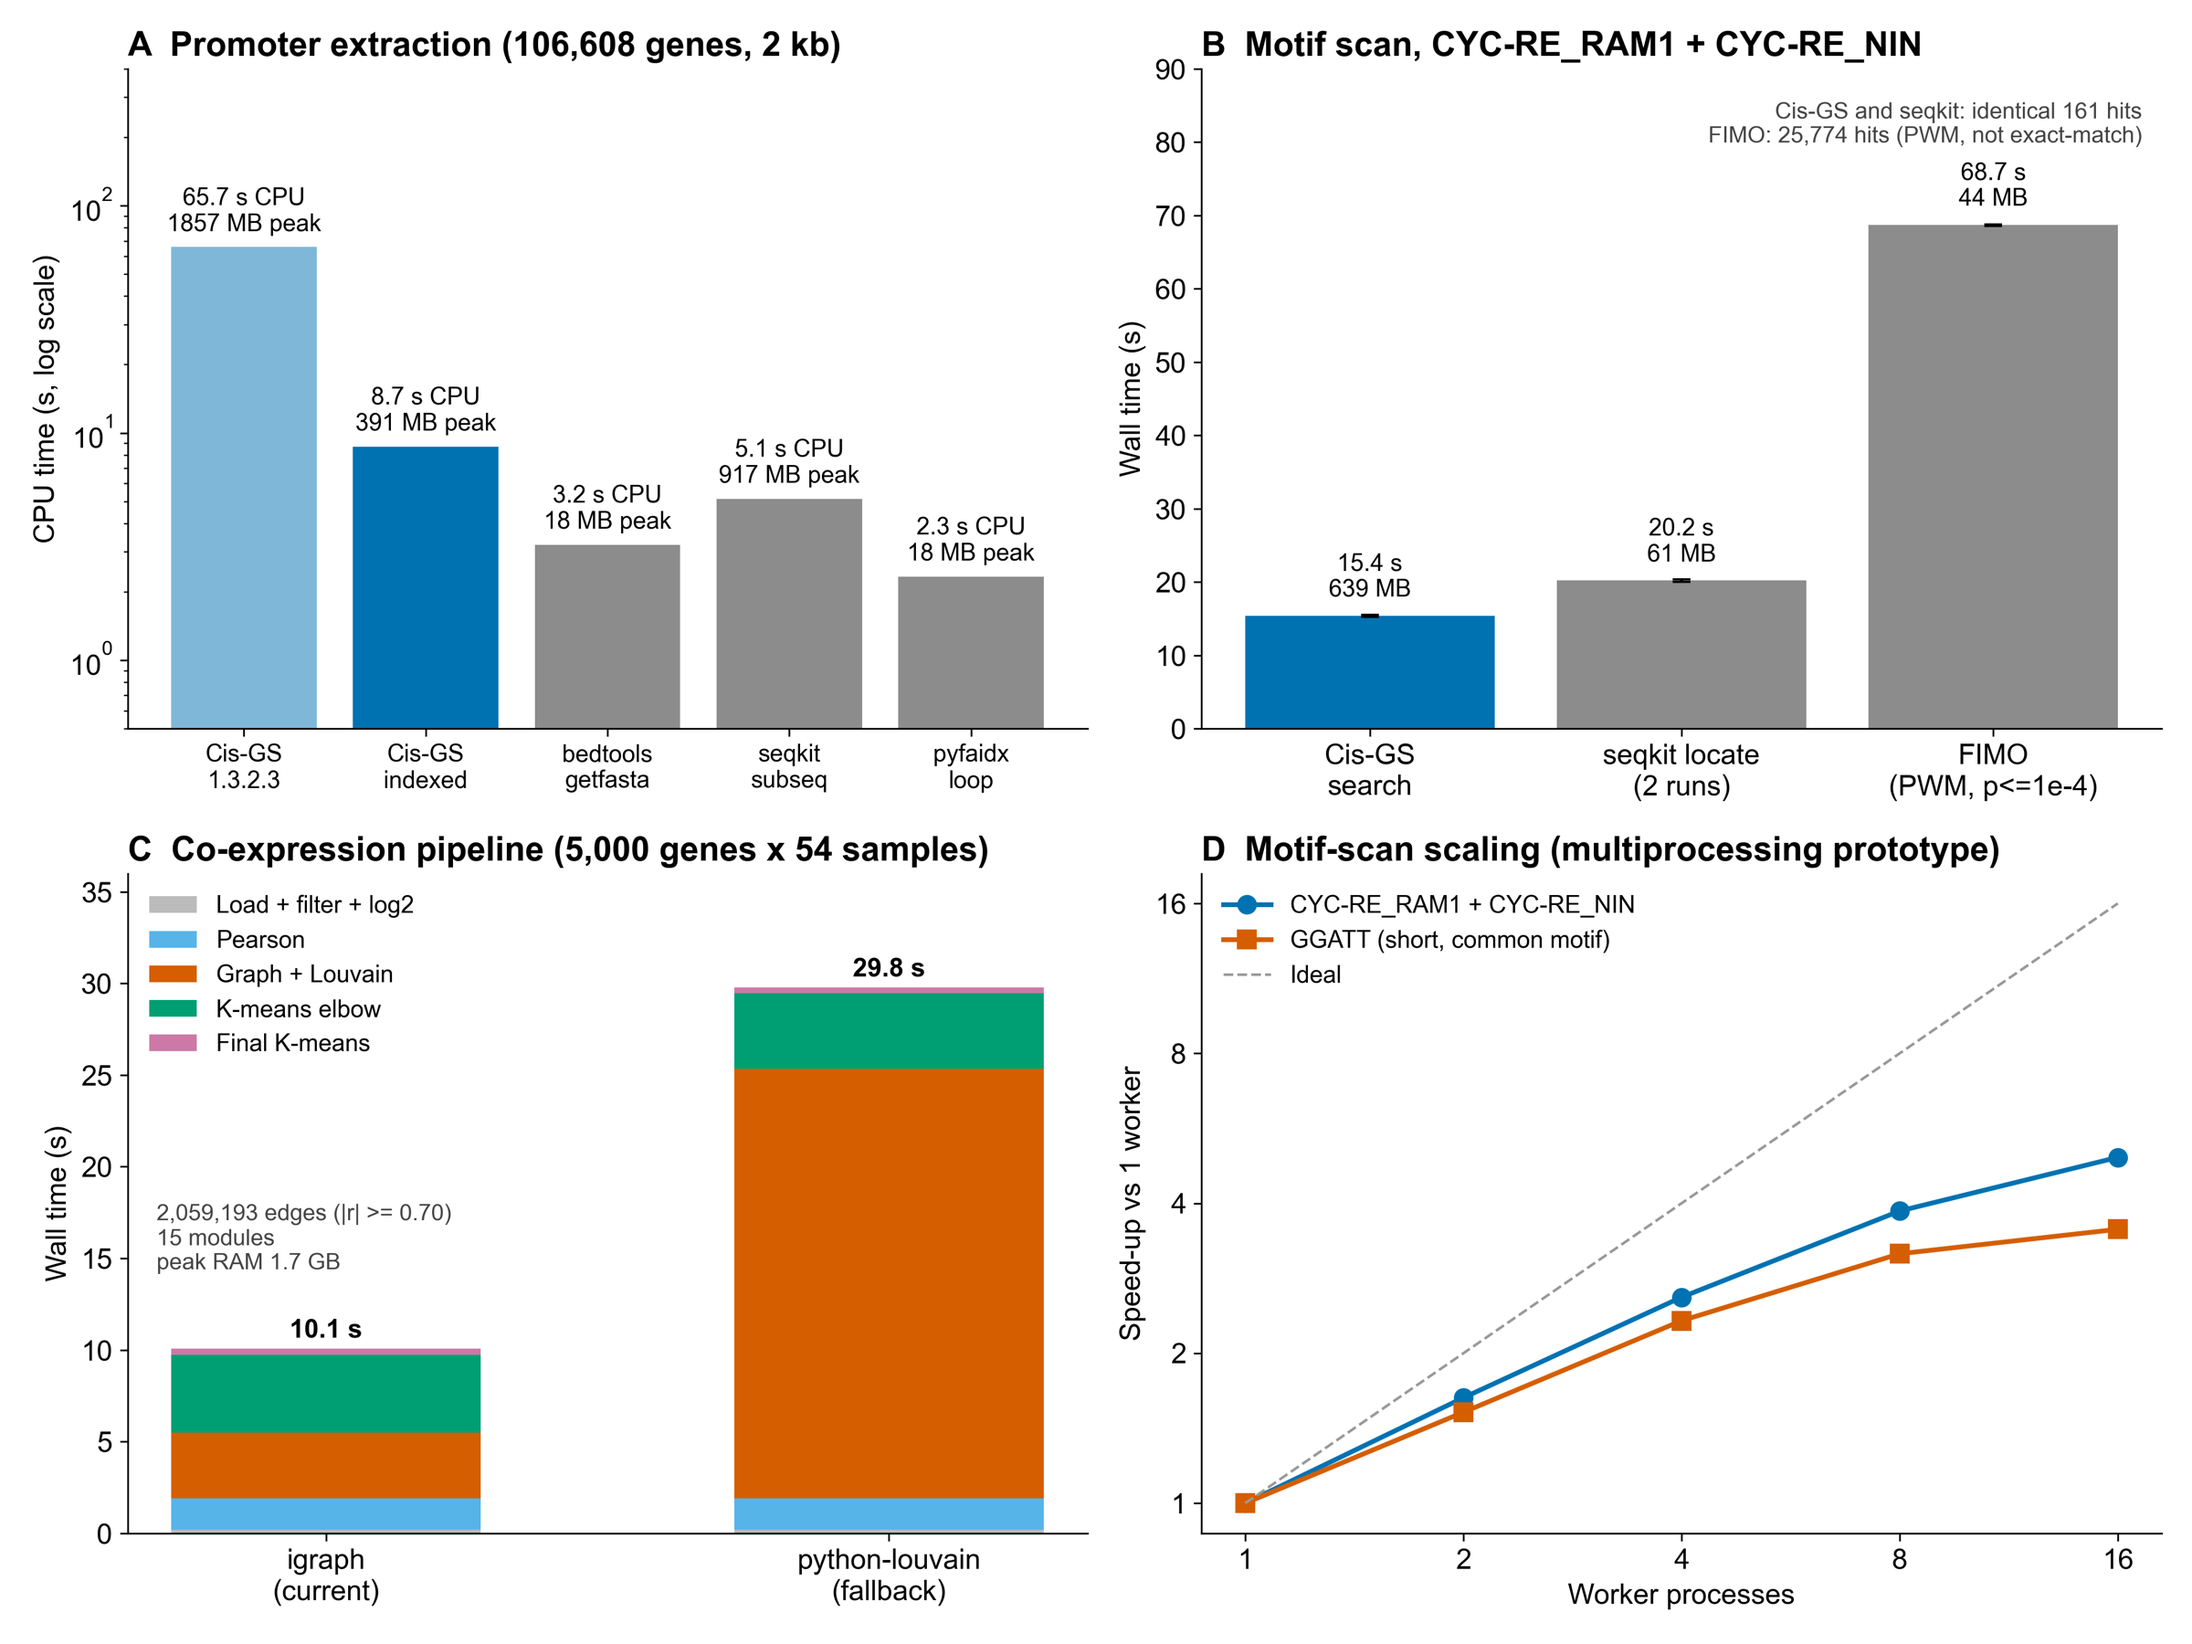
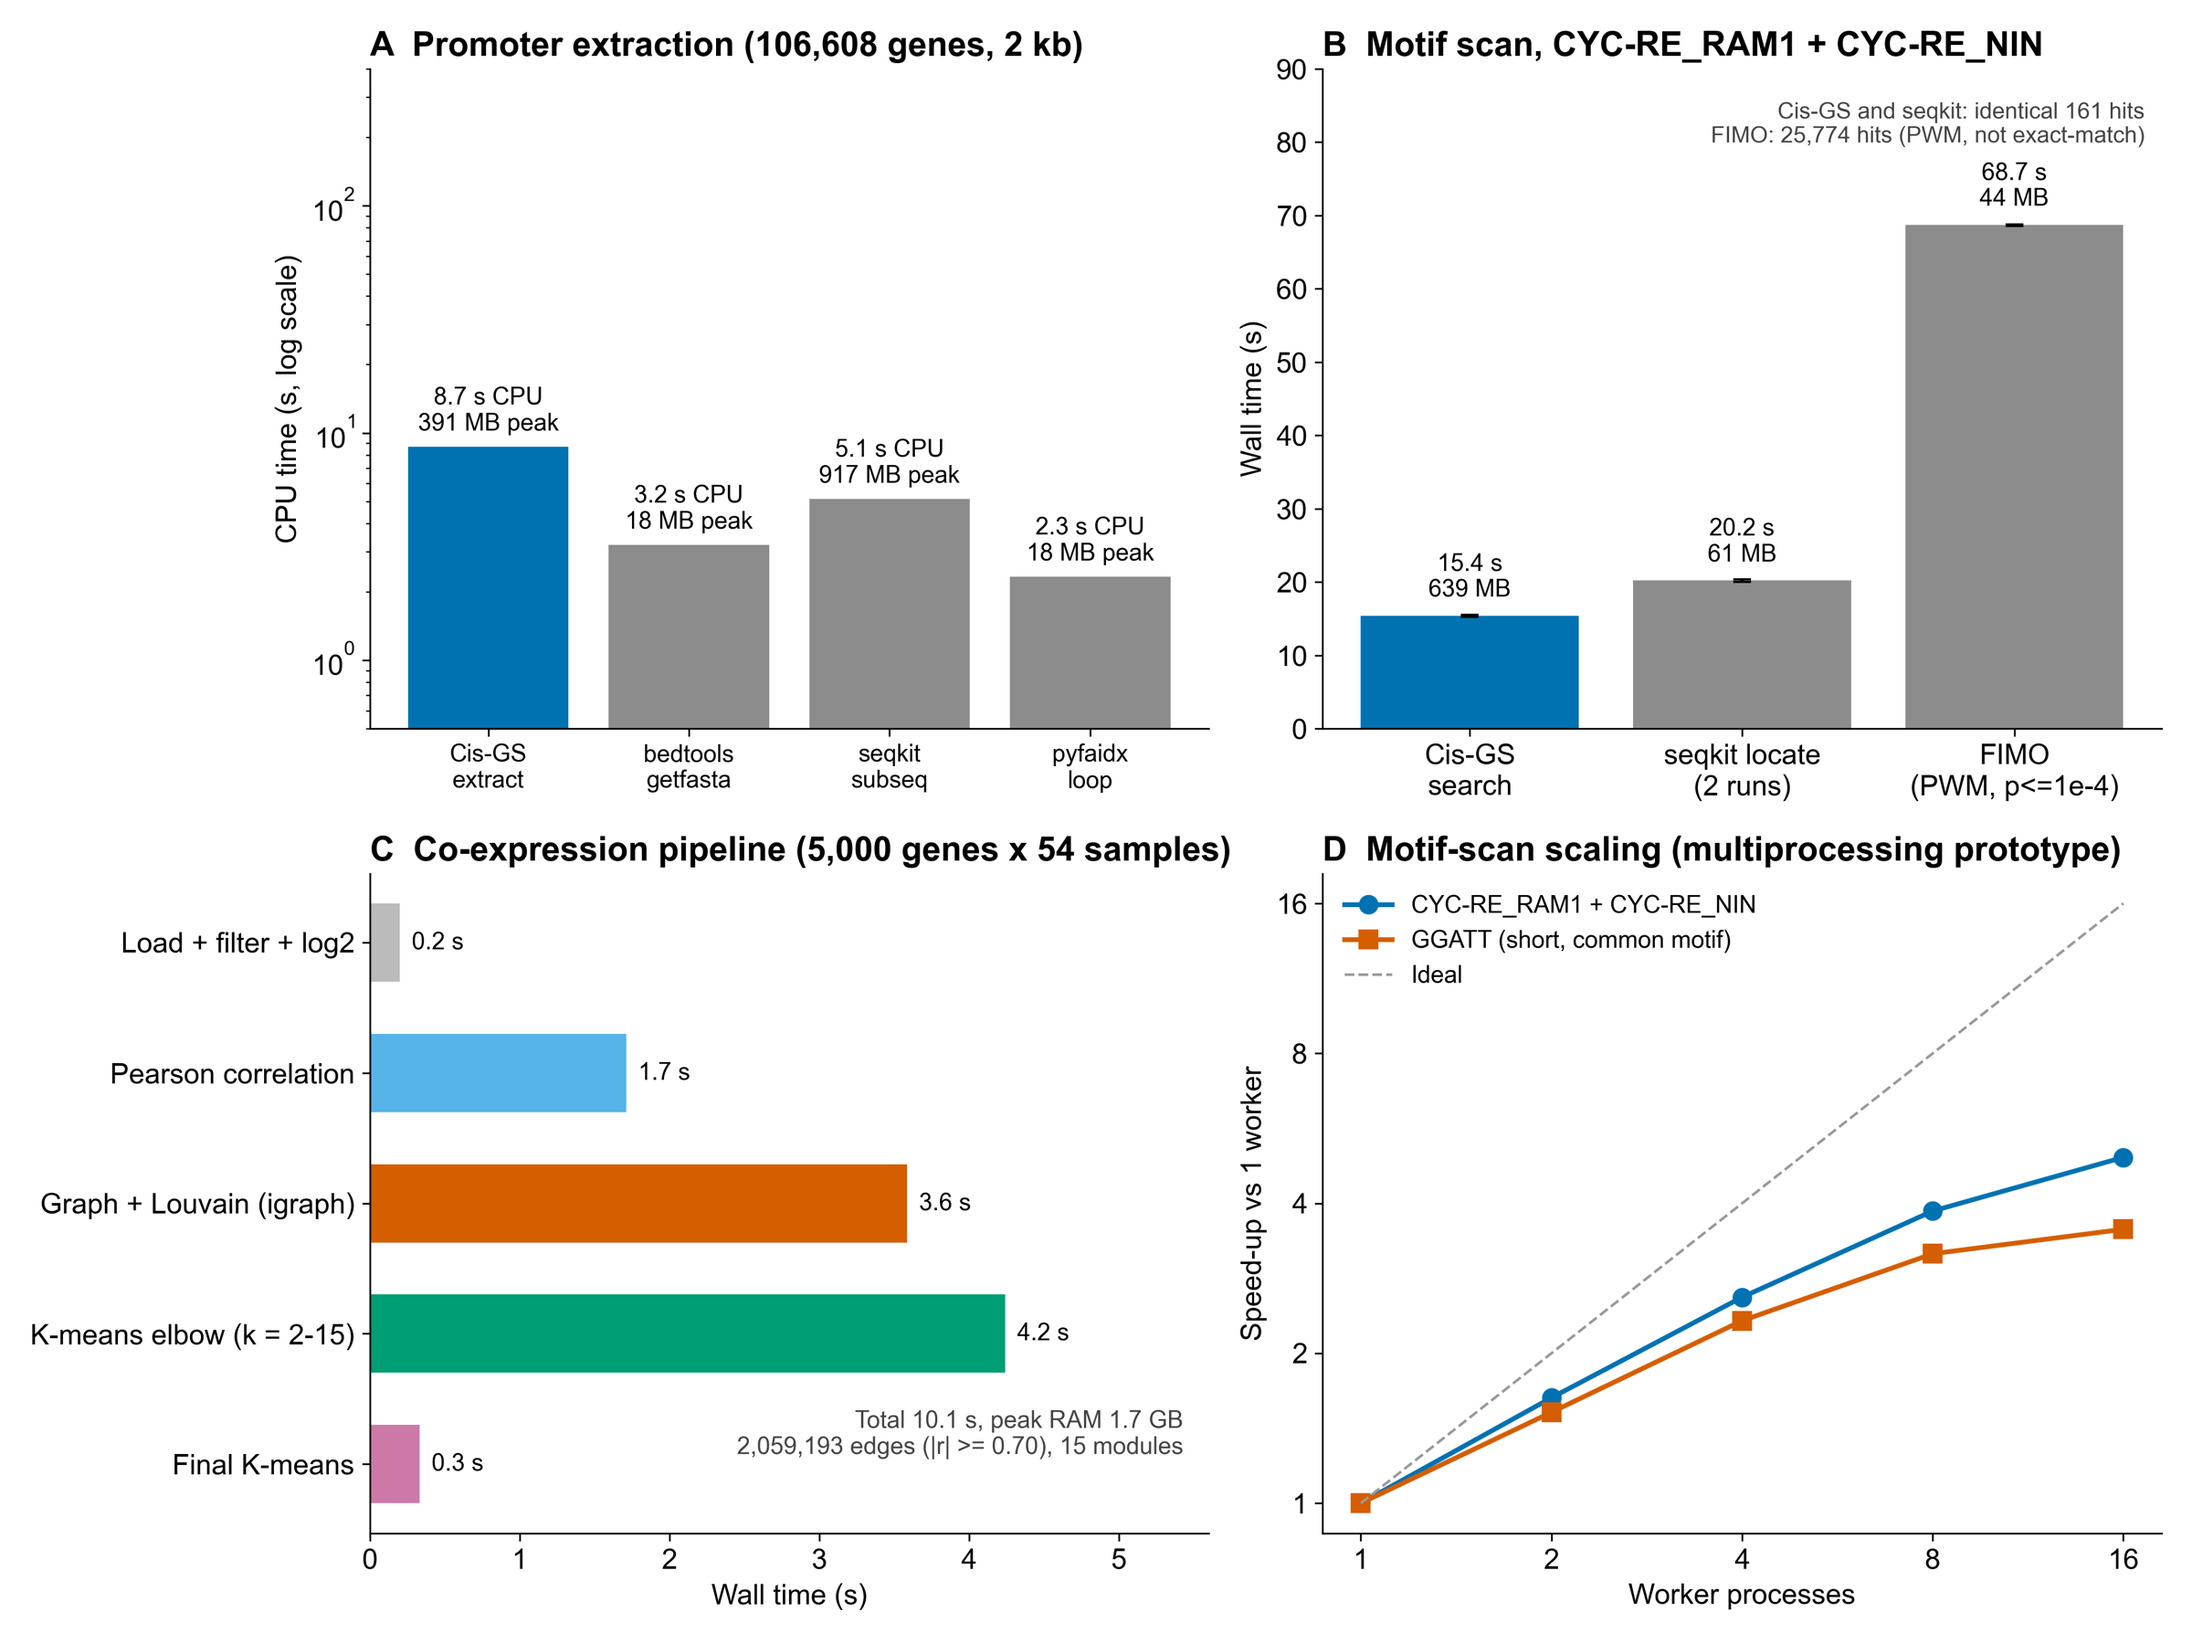
docs: show only current Cis-GS in performance page and figure

diff --git a/docs/source/performance.rst b/docs/source/performance.rst
@@ -25,15 +25,10 @@ Resources per step
      - Peak RAM
      - Note
    * - Promoter extraction
-     - Cis-GS 1.3.2.4 (indexed)
+     - Cis-GS 1.3.2.4
      - 4.9 s
      - 0.39 GB
      - includes GFF3 parse; 20.8 s on a cold first read
-   * -  
-     - Cis-GS 1.3.2.3
-     - 62.7 s
-     - 1.86 GB
-     - loaded whole chromosomes
    * -  
      - bedtools getfasta
      - 1.8 s CPU
@@ -70,15 +65,10 @@ Resources per step
      - 1.18 GB
      - 442,811 hit rows
    * - Co-expression pipeline (5,000 genes x 54 samples)
-     - Cis-GS (igraph)
+     - Cis-GS
      - 10.1 s
      - 1.67 GB
      - 2.06 M edges, 15 modules
-   * -  
-     - Cis-GS (python-louvain fallback)
-     - 29.8 s
-     - 1.78 GB
-     -  
 
 Notes
 -----
